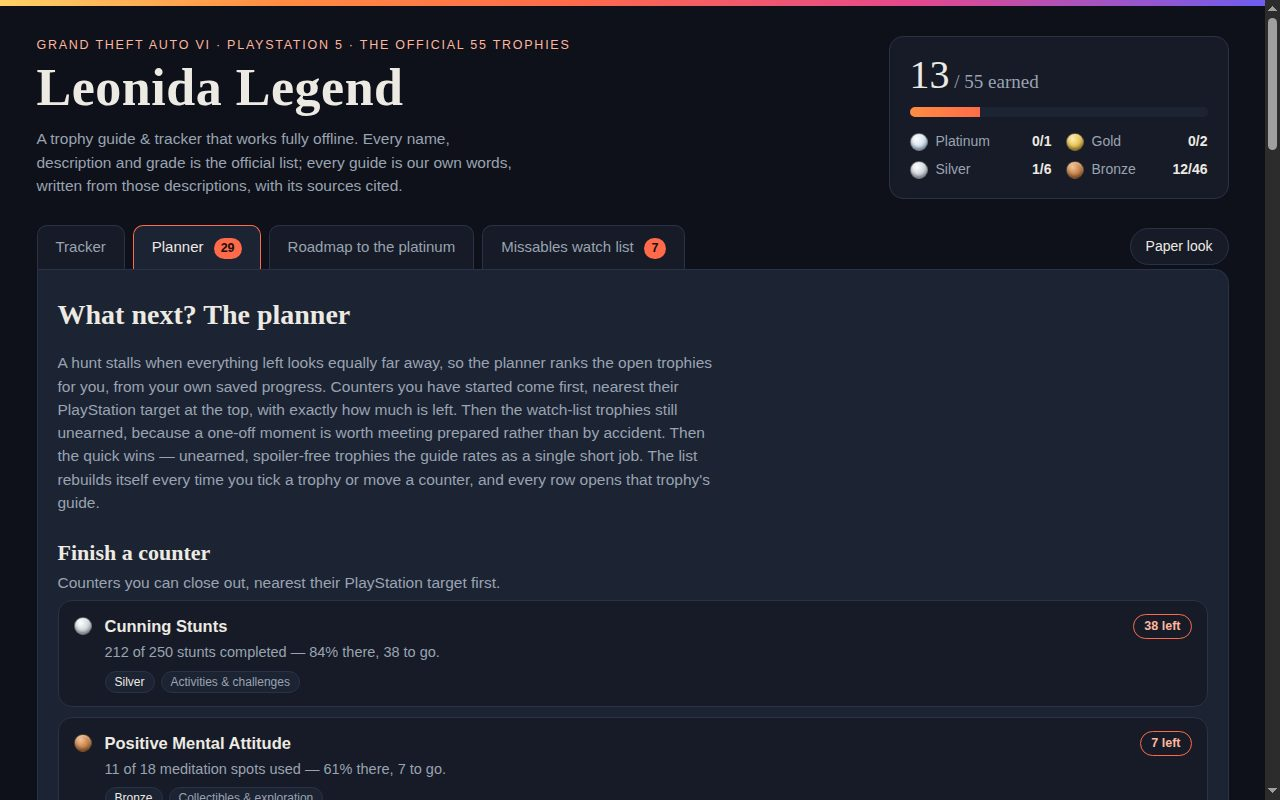
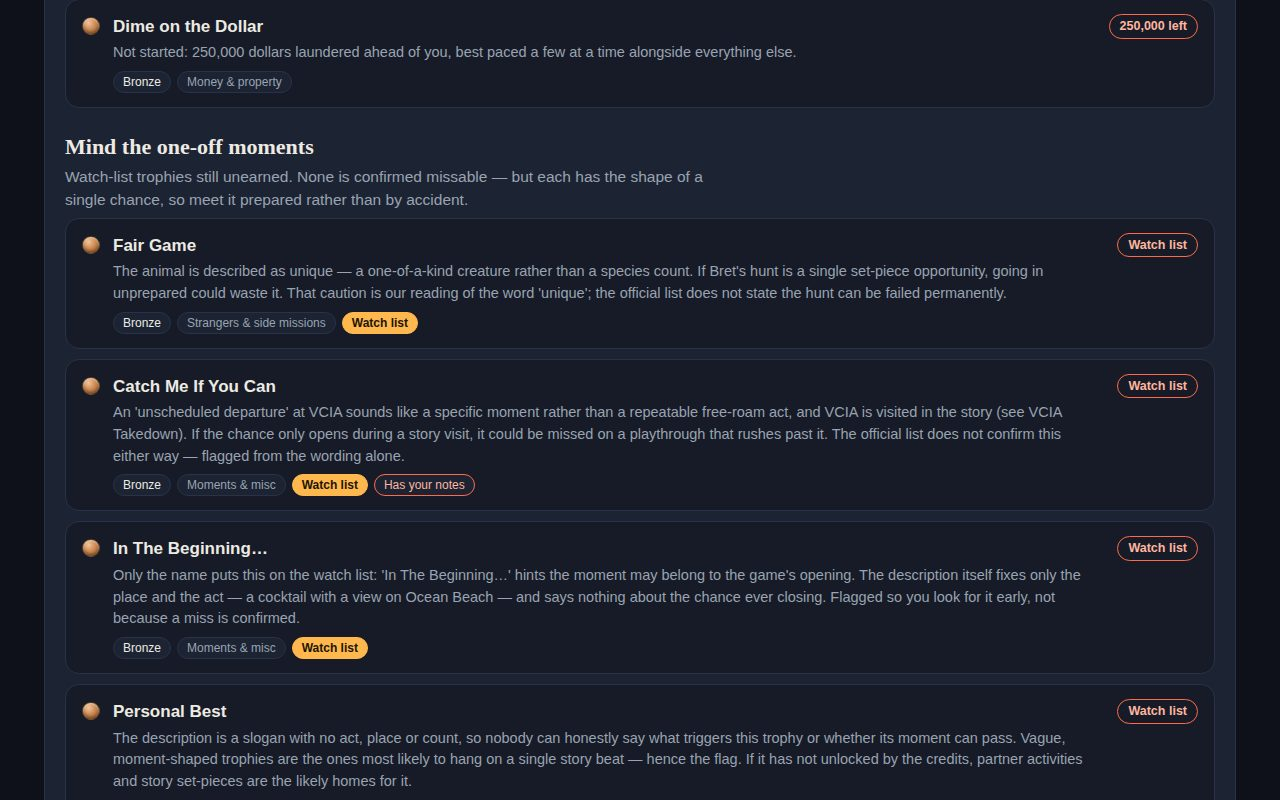
Presentation polish: stronger cover shot, paper-look guide, planner top pick
- Hero: sunset glow behind the masthead, a platinum goal line, and a
  scoreboard that now labels the hunt and reads its percentage of the road
  to the platinum.
- Planner: the single best next job is marked Top pick; the planner shot is
  framed on the one-off moments group so the missables watch list reads
  inside the plan.
- Guide shot taken with the paper look switched on, pane scrolled to the
  guide, the missable note, the sources and your notes.
- Guides for Cunning Stunts, Positive Mental Attitude and Catch Me If You
  Can tightened in our own words; official names, descriptions and grades
  untouched.
- main.ts now lists every screenshot with its size and flags any over the
  256 KiB gate cap; shots.mjs regenerates all four shots over CDP.
- README gains a Screenshots section describing what each shot shows.

diff --git a/app/style.css b/app/style.css
@@ -51,7 +51,7 @@ body {
   line-height: 1.5;
 }
 .sunset {
-  height: 6px;
+  height: 8px;
   background: linear-gradient(90deg, #ffd166 0%, #ff8c42 22%, #ff6b4a 45%, #e5488c 72%, #6d5df0 100%);
 }
 /* ---------- masthead ---------- */
@@ -63,6 +63,9 @@ body {
   max-width: 1240px;
   margin: 0 auto;
   padding: 30px 24px 8px;
+  /* A faint sunset glow behind the hero, so the title reads as a cover
+     rather than a bare heading; it fades out before the tabs. */
+  background: radial-gradient(720px 190px at 18% 0%, rgba(255, 140, 66, 0.14), rgba(229, 72, 140, 0.05) 55%, transparent 75%);
 }
 .masthead-text { flex: 1 1 480px; }
 .kicker {
@@ -81,13 +84,25 @@ h1 {
   line-height: 1.05;
 }
 .tagline { margin: 12px 0 0; color: var(--muted); max-width: 56ch; }
+.hero-goal { margin: 10px 0 0; color: var(--text); font-family: var(--serif); font-size: 18px; }
+.hero-goal em { color: var(--accent-soft); font-style: normal; font-weight: 600; }
 .scoreboard {
   flex: 0 1 340px;
   background: var(--panel);
   border: 1px solid var(--line);
   border-radius: var(--radius);
   padding: 18px 20px;
+  box-shadow: 0 10px 28px rgba(0, 0, 0, 0.28);
 }
+.score-label {
+  margin: 0 0 6px;
+  font-size: 12px;
+  font-weight: 700;
+  letter-spacing: 0.12em;
+  text-transform: uppercase;
+  color: var(--accent-soft);
+}
+.pct { margin: 8px 0 12px; color: var(--muted); font-size: 14px; }
 .big-count { font-family: var(--serif); font-size: 40px; line-height: 1; }
 .big-count .of { font-size: 19px; color: var(--muted); }
 .bar {
@@ -252,7 +267,7 @@ main { max-width: 1240px; margin: 0 auto; padding: 0 24px 30px; }
   background: var(--panel);
   border: 1px solid var(--line);
   border-radius: var(--radius);
-  padding: 13px 15px;
+  padding: 14px 16px;
   cursor: pointer;
 }
 .card:hover { border-color: #3c4763; }
@@ -262,7 +277,7 @@ main { max-width: 1240px; margin: 0 auto; padding: 0 24px 30px; }
 .card .tick input { width: 21px; height: 21px; accent-color: var(--good); cursor: pointer; }
 .card .medal { margin-top: 3px; }
 .card-main { flex: 1 1 auto; min-width: 0; }
-.card-name { font-weight: 650; font-size: 16.5px; }
+.card-name { font-weight: 650; font-size: 17px; }
 .card.earned .card-name { color: var(--accent-soft); }
 .card-desc { color: var(--muted); font-size: 14.5px; margin-top: 1px; }
 .card.hidden-trophy .card-name, .card.hidden-trophy .card-desc { color: var(--muted); font-style: italic; }
@@ -318,7 +333,7 @@ main { max-width: 1240px; margin: 0 auto; padding: 0 24px 30px; }
   max-height: calc(100vh - 32px);
   overflow: auto;
 }
-.pane-empty h2, .guide-pane h2 { font-family: var(--serif); font-size: 25px; margin: 2px 0 8px; line-height: 1.2; }
+.pane-empty h2, .guide-pane h2 { font-family: var(--serif); font-size: 26px; margin: 2px 0 8px; line-height: 1.2; }
 .pane-empty p { color: var(--muted); }
 .pane-head { display: flex; gap: 13px; align-items: flex-start; }
 .pane-head .medal { margin-top: 5px; }
@@ -409,6 +424,24 @@ main { max-width: 1240px; margin: 0 auto; padding: 0 24px 30px; }
   font-weight: 650;
   color: var(--accent-soft);
   border: 1px solid var(--accent);
+  border-radius: 20px;
+  padding: 2px 10px;
+  white-space: nowrap;
+}
+/* The planner's single best next job: an accent frame and a filled mark, so
+   the recommendation jumps out of the list at a glance. */
+.plan-top { border-color: var(--accent); box-shadow: 0 0 0 1px var(--accent); background: var(--panel-2); }
+.plan-top-label {
+  flex: none;
+  align-self: flex-start;
+  margin-left: 10px;
+  font-size: 12px;
+  font-weight: 700;
+  letter-spacing: 0.08em;
+  text-transform: uppercase;
+  color: #1d1405;
+  background: var(--warn);
+  border: 1px solid var(--warn);
   border-radius: 20px;
   padding: 2px 10px;
   white-space: nowrap;

diff --git a/app/app.js b/app/app.js
@@ -91,6 +91,10 @@ function renderHeader() {
   const bar = document.getElementById('overall-bar');
   bar.setAttribute('aria-valuenow', String(earned.size));
   document.getElementById('overall-fill').style.width = `${(earned.size / trophies.length) * 100}%`;
+  // A plain-language read of the same number, so the scoreboard says at a
+  // glance how far along the road to the platinum the hunt actually is.
+  document.getElementById('overall-pct').textContent =
+    `${Math.round((earned.size / trophies.length) * 100)}% of the road to the platinum`;
   for (const g of GRADES) {
     const all = trophies.filter((t) => t.grade === g);
     const got = all.filter((t) => earned.has(t.id)).length;
@@ -324,14 +328,20 @@ function renderPlanner() {
     box.append(el('h3', '', g.title));
     box.append(el('p', 'plan-intro', g.intro));
     const list = el('ol', 'trophy-list');
-    for (const item of g.items) {
+    for (const [ii, item] of g.items.entries()) {
       const li = el('li', 'card plan-item');
+      // The single best next job gets a visible top-pick mark, so the
+      // planner's first row reads as a recommendation, not just a list.
+      if (g.title === 'Finish a counter' && ii === 0) {
+        li.classList.add('plan-top');
+      }
       li.append(medal(item.t.grade));
       const main = el('div', 'card-main');
       main.append(el('div', 'card-name', item.t.name));
       main.append(el('p', 'plan-reason', item.reason));
       main.append(chipsFor(item.t));
       li.append(main);
+      if (li.classList.contains('plan-top')) li.append(el('span', 'plan-top-label', 'Top pick'));
       li.append(el('span', 'plan-badge', item.badge));
       li.addEventListener('click', () => {
         switchView('tracker');

diff --git a/main.ts b/main.ts
@@ -86,6 +86,18 @@ writeFileSync(join(outputDir, 'dossier.json'), dossier);
 const appTally = tally(join(outputDir, 'app'));
 const shotTally = tally(join(outputDir, 'screenshots'));
 const kib = (n) => `${(n / 1024).toFixed(1)} KiB`;
+// Name every screenshot and its size, and say plainly if any of them is over
+// the gate's 256 KiB cap — a shot the scorer would refuse should never slip
+// through a rehearsal unnoticed.
+let shotLines = [];
+try {
+  for (const name of readdirSync(join(outputDir, 'screenshots')).sort()) {
+    const size = statSync(join(outputDir, 'screenshots', name)).size;
+    shotLines.push(`    ${name} ${kib(size)}${size > GATE_CAPS.screenshots.max_bytes ? ' — OVER THE 256 KiB CAP' : ''}`);
+  }
+} catch {
+  shotLines = ['    (no screenshots folder)'];
+}
 let trophyCount = 'unreadable';
 try {
   const guideData = JSON.parse(readFileSync(join(outputDir, 'app', 'data', 'trophies.json'), 'utf8'));
@@ -97,5 +109,6 @@ console.log('Leonida Legend — hand-in assembled:');
 console.log(`  app/:         ${appTally.files} files, ${kib(appTally.bytes)}`);
 console.log(`  trophies:     ${trophyCount} in the guide data`);
 console.log(`  screenshots/: ${shotTally ? shotTally.files : 0} files, ${shotTally ? kib(shotTally.bytes) : '0 KiB'}`);
+for (const line of shotLines) console.log(line);
 console.log(`  dossier.json: ${kib(Buffer.byteLength(dossier))}`);
 console.log(`  output:       ${outputDir}`);

diff --git a/app/index.html b/app/index.html
@@ -14,10 +14,13 @@
     <p class="kicker">Grand Theft Auto VI · PlayStation 5 · the official 55 trophies</p>
     <h1>Leonida Legend</h1>
     <p class="tagline">A trophy guide &amp; tracker that works fully offline. Every name, description and grade is the official list; every guide is our own words, written from those descriptions, with its sources cited.</p>
+    <p class="hero-goal">One platinum — <em>Vice Got a Price!</em> — fifty-four steps away.</p>
   </div>
   <div class="scoreboard" aria-label="Overall progress">
+    <p class="score-label">Your hunt so far</p>
     <div class="big-count"><span id="earned-count">0</span><span class="of"> / 55 earned</span></div>
     <div class="bar" role="progressbar" aria-label="Trophies earned" aria-valuemin="0" aria-valuemax="55" aria-valuenow="0" id="overall-bar"><span id="overall-fill"></span></div>
+    <p class="pct" id="overall-pct"></p>
     <ul class="grade-counts">
       <li><span class="medal platinum" aria-hidden="true"></span>Platinum <strong id="count-platinum">0/1</strong></li>
       <li><span class="medal gold" aria-hidden="true"></span>Gold <strong id="count-gold">0/2</strong></li>

diff --git a/README.md b/README.md
@@ -20,6 +20,15 @@ A free, open-source trophy guide and tracker for Grand Theft Auto VI on PlayStat
 - **Roadmap to the platinum** — six stages (story → strangers → partner work → the great sweep → crime & money → loose ends and the 100% summit), each with its own progress read live from your tracker.
 - **Missables watch list** — no trophy on the official list is *confirmed* missable, and the guide says so plainly. Seven trophies whose wording suggests a one-off moment, a unique target, a choice or a second attempt are flagged, each with the reasoning spelled out.
 
+## Screenshots
+
+The judge sees the four screenshots and the file outline, so the shots are chosen to carry the whole app at a glance:
+
+1. **Tracker** — the hero header and scoreboard (13 of 55 earned, per-grade counters, the road-to-the-platinum read), the four tabs, filters, the Next up strip naming the counter nearest its target, and the guide pane open on a watch-list trophy.
+2. **Guide, in the paper look** — the same guide pane with the light paper theme switched on: the full guide in our own words, the missable note with its reasoning, the cited sources, and the reader's own saved note.
+3. **Roadmap** — the six stages to the platinum, each with its own live progress bar.
+4. **Planner** — the hunt ranked from the saved progress, the top pick marked, scrolled to the one-off moments group so the missables watch list is visible inside the plan.
+
 ## Sources & honesty
 
 - Trophy names, descriptions and grades: the official list on **Exophase** (the list frozen 2026-11-18), held in `app/data/trophies.json` exactly as published.
@@ -45,7 +54,7 @@ node main.ts             # writes to /output, or $MAKEFUN_OUTPUT_DIR
 - `app/index.html`, `app/app.js`, `app/style.css` — the whole app: no build step, no dependencies, system fonts only, medal swatches drawn in CSS.
 - `app/data/trophies.json` — the official list plus, per trophy: kind, spoiler flag, progress target, missable flag/note, an effort estimate the planner ranks by (this project's own judgement, not an official figure), the full guide, and its sources.
 - `main.ts` / `vendor/makefun-frontend.ts` — the hand-in program and the vendored dossier library (the scorer's own copy; left byte-for-byte as shipped).
-- `screenshots/` — four screens of the app with a hunt in progress (13 of 55 earned, spoiler protection on): the tracker, a guide pane with the reader's own notes, the roadmap, and the planner.
+- `screenshots/` — four screens of the app with a hunt in progress (13 of 55 earned, spoiler protection on): the tracker with its hero scoreboard, a guide pane in the paper look, the roadmap, and the planner with its top pick and the watch list in view. Regenerate them with `node shots.mjs` (drives the headless Chromium in the Playwright cache over CDP; it seeds the same demo progress, then captures 1280×800 JPEGs).
 
 Leonida Legend is a fan-made tool. It is not affiliated with Rockstar Games or Take-Two Interactive, and it uses no Rockstar artwork, logos or assets. MIT licensed — see `LICENSE`.
 
